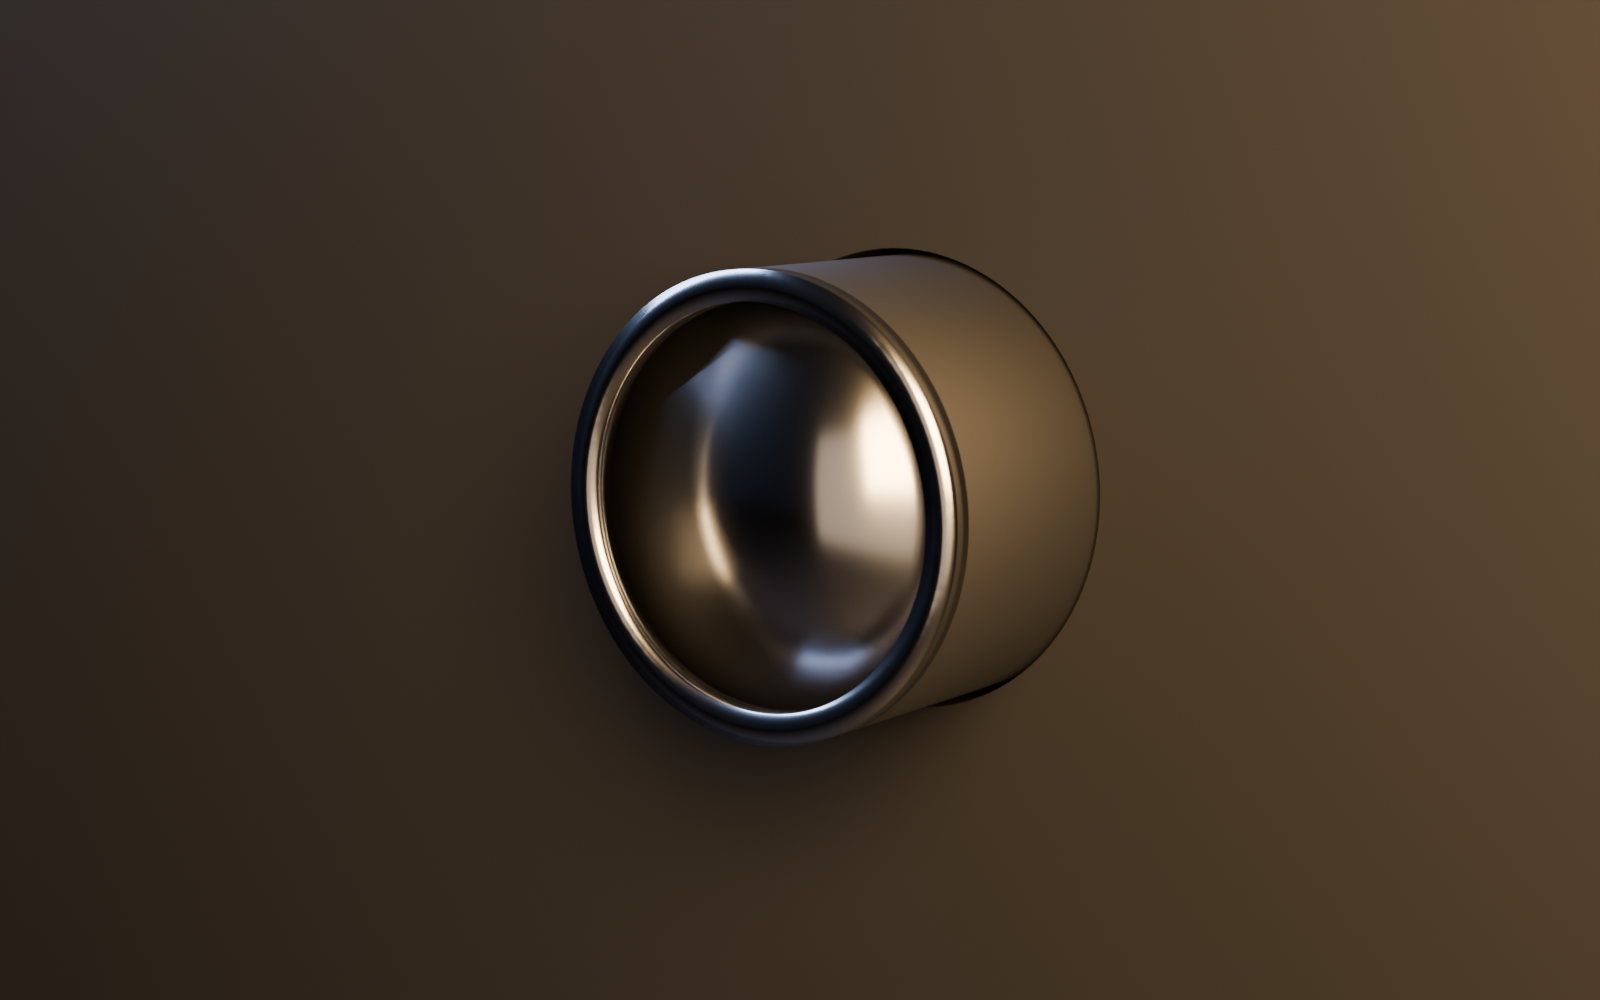
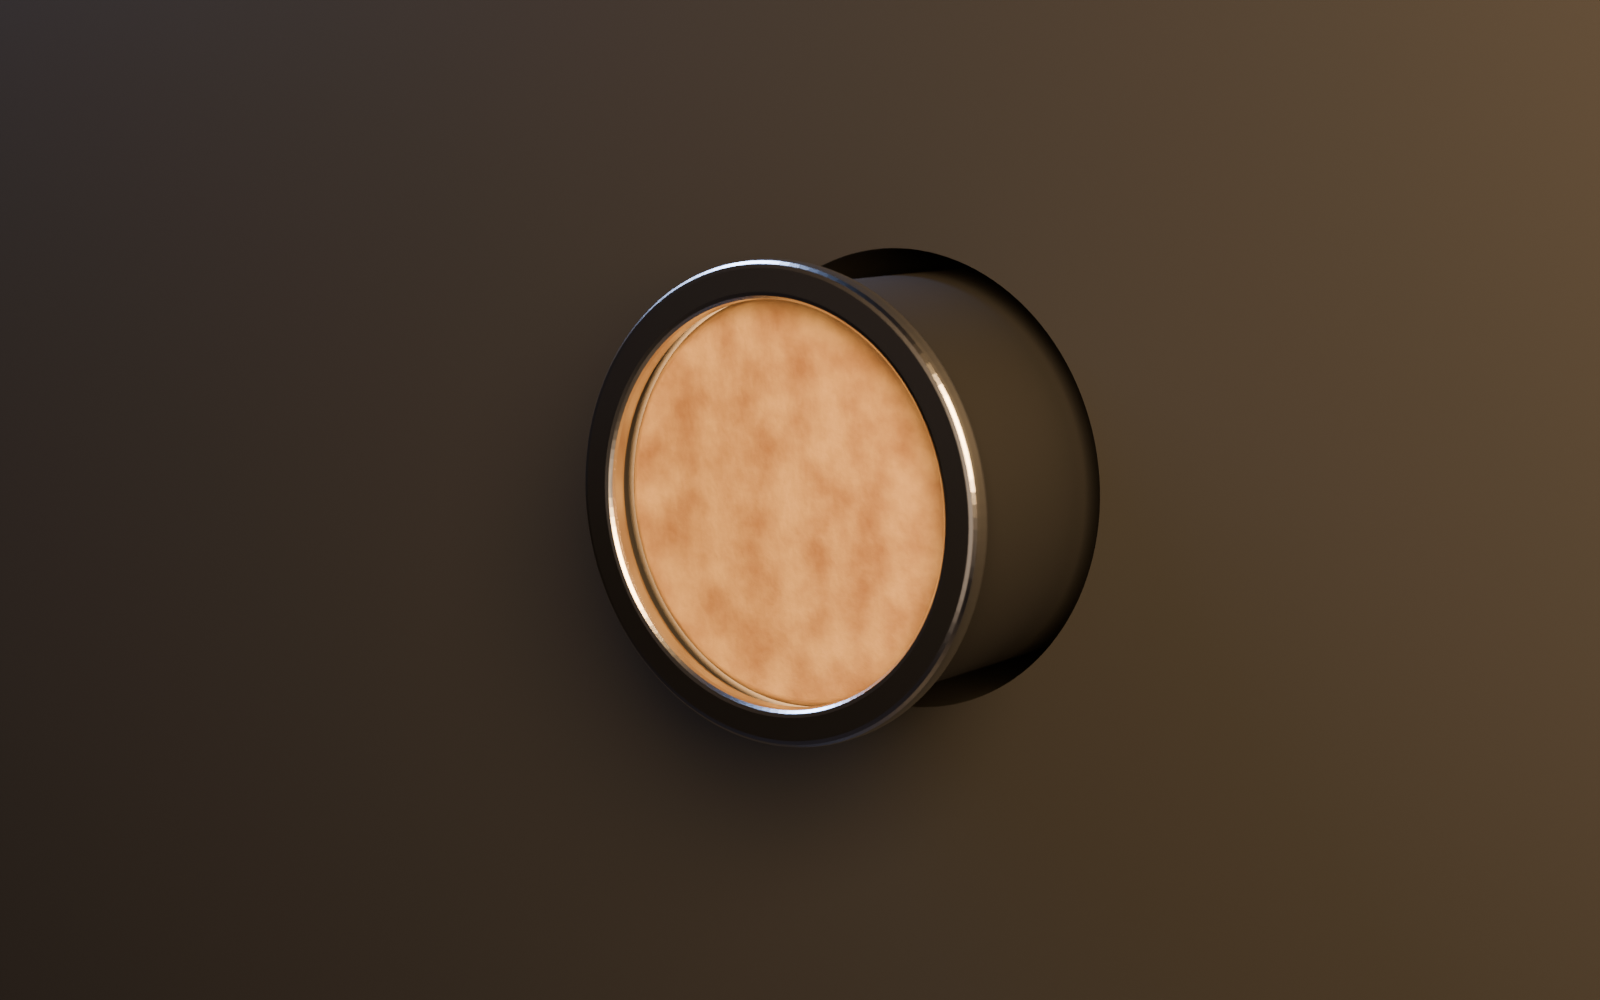
Tune hero render to "bread is the hero" + embed in landing page
The previous hero.png was a rough massing pass: the imported CAD parts
land at their FreeCAD origins, and the solid Piston sat in the mouth and
occluded the flatbread, so the shot read as a bronze steel cup on a
brown blur with no visible bread.

Rebuild build_scene.py from controlled primitives (sized from scene.json):
a dark recessed cook chamber, a stainless mouth-die ring, and the golden
flatbread seated proud of the die as the warm focal point. Richer toasted
bread colour, brighter cool rim to define the steel ring, DOF/mouth-glow
refocused on the bread.

Embed the render two-column in index.html's hero header (.hero-grid,
stacks under 720px) with an explicit img size to avoid layout shift.

Changed region(s): [[0.3438, 0.248, 0.6875, 0.744]]

diff --git a/index.html b/index.html
@@ -33,6 +33,11 @@
   .btns{margin-top:24px;display:flex;gap:12px;flex-wrap:wrap}
   .btn{border:1px solid var(--border);border-radius:8px;padding:9px 14px;color:var(--text)}
   .btn.primary{background:var(--warm);color:#2a1602;border-color:var(--warm);font-weight:600}
+  .hero-grid{display:grid;grid-template-columns:1.05fr .95fr;gap:40px;align-items:center}
+  .hero-media{position:relative}
+  .hero-media img{width:100%;height:auto;display:block;border:1px solid var(--border);
+    border-radius:14px;box-shadow:0 20px 50px rgba(0,0,0,.45)}
+  .hero-media figcaption{margin:10px 2px 0;color:var(--muted);font-size:12.5px}
   section{padding:48px 0;border-bottom:1px solid var(--border)}
   h2{font-size:26px;margin:0 0 8px} .lead{color:var(--muted);margin:0 0 24px;max-width:680px}
   .grid{display:grid;grid-template-columns:1fr 1fr;gap:20px}
@@ -54,7 +59,7 @@
   .t{font-size:12px;color:var(--muted);border:1px solid var(--border);border-radius:6px;padding:2px 8px}
   code{background:var(--panel2);border:1px solid var(--border);border-radius:5px;padding:1px 6px;font-size:13px}
   footer{padding:36px 0;color:var(--muted);font-size:14px}
-  @media(max-width:720px){.grid,.cards{grid-template-columns:1fr}h1{font-size:32px}}
+  @media(max-width:720px){.grid,.cards,.hero-grid{grid-template-columns:1fr}h1{font-size:32px}}
 </style>
 </head>
 <body>
@@ -73,15 +78,24 @@
 </div></nav>
 
 <header class="hero"><div class="wrap">
-  <div class="pill">Design + simulation · uncertified research · the food sibling of HiveCell</div>
-  <h1>No one should go hungry because they <span class="k">cannot afford food</span>.</h1>
-  <p class="tag">SeedCell is a public, self-cleaning machine that turns long-life dry ingredients
-  into a fresh, warm, nutritious flatbread on demand. Not a vending machine — a <em>food
-  syringe</em>: it briefly opens, delivers food, then cleans itself.</p>
-  <div class="btns">
-    <a class="btn primary" href="#how">How it works</a>
-    <a class="btn" href="#safety">Safety first</a>
-    <a class="btn" href="https://github.com/StrayEddy/SeedCell">Read the source</a>
+  <div class="hero-grid">
+    <div class="hero-copy">
+      <div class="pill">Design + simulation · uncertified research · the food sibling of HiveCell</div>
+      <h1>No one should go hungry because they <span class="k">cannot afford food</span>.</h1>
+      <p class="tag">SeedCell is a public, self-cleaning machine that turns long-life dry ingredients
+      into a fresh, warm, nutritious flatbread on demand. Not a vending machine — a <em>food
+      syringe</em>: it briefly opens, delivers food, then cleans itself.</p>
+      <div class="btns">
+        <a class="btn primary" href="#how">How it works</a>
+        <a class="btn" href="#safety">Safety first</a>
+        <a class="btn" href="https://github.com/StrayEddy/SeedCell">Read the source</a>
+      </div>
+    </div>
+    <figure class="hero-media">
+      <img src="assets/hero.png" width="1600" height="1000"
+        alt="SeedCell's delivery mouth: a fresh, warm flatbread presented in the stainless mouth die, recessed into a flush armored public wall.">
+      <figcaption>The delivery moment — a fresh flatbread in the mouth die. Blender render from the FreeCAD model.</figcaption>
+    </figure>
   </div>
 </div></header>
 

diff --git a/blender/build_scene.py b/blender/build_scene.py
@@ -68,10 +68,10 @@ def bread_mat():
 	n1 = nt.nodes.new("ShaderNodeTexNoise"); n1.inputs["Scale"].default_value = 9.0
 	n1.inputs["Detail"].default_value = 4.0
 	ramp = nt.nodes.new("ShaderNodeValToRGB")
-	ramp.color_ramp.elements[0].position = 0.35
-	ramp.color_ramp.elements[0].color = (0.30, 0.15, 0.06, 1)   # toasted
-	ramp.color_ramp.elements[1].position = 0.75
-	ramp.color_ramp.elements[1].color = (0.56, 0.34, 0.14, 1)   # golden
+	ramp.color_ramp.elements[0].position = 0.30
+	ramp.color_ramp.elements[0].color = (0.34, 0.17, 0.07, 1)   # deep toasted
+	ramp.color_ramp.elements[1].position = 0.70
+	ramp.color_ramp.elements[1].color = (0.66, 0.42, 0.18, 1)   # rich golden
 	nt.links.new(n1.outputs["Fac"], ramp.inputs["Fac"])
 	nt.links.new(ramp.outputs["Color"], b.inputs["Base Color"])
 	# a faint warmth so it reads as fresh/warm, but it is LIT not glowing
@@ -80,7 +80,7 @@ def bread_mat():
 	# crust bump
 	n2 = nt.nodes.new("ShaderNodeTexNoise"); n2.inputs["Scale"].default_value = 55.0
 	n2.inputs["Detail"].default_value = 3.0
-	bump = nt.nodes.new("ShaderNodeBump"); bump.inputs["Strength"].default_value = 0.22
+	bump = nt.nodes.new("ShaderNodeBump"); bump.inputs["Strength"].default_value = 0.28
 	nt.links.new(n2.outputs["Fac"], bump.inputs["Height"])
 	nt.links.new(bump.outputs["Normal"], b.inputs["Normal"])
 	return m
@@ -134,22 +134,53 @@ bpy.ops.object.modifier_apply(modifier="mouth")
 bpy.data.objects.remove(cutter, do_unlink=True)
 set_mat(wall, mat_wall)
 
-# ---- imported machine parts (real dims) -----------------------------------
-for pname, mat in [("MouthDie", mat_steel), ("CookBarrel", mat_wall), ("Piston", mat_steel)]:
-	o = imp(pname)
-	if o:
-		set_mat(o, mat); smooth(o)
+# ---- recessed cook chamber (dark interior behind the mouth) ----------------
+# An open dark tube gives the mouth real depth so the warm bread reads against a
+# shadowed interior. Primitives only: the imported CAD parts land at their FreeCAD
+# origins -- the solid Piston (x[0,0.12], r0.08) sits square in the mouth and
+# occludes the bread -- so they belong to the /godot twin, not this beauty shot.
+chamber_len = S["barrel_len_m"]
+bpy.ops.mesh.primitive_cylinder_add(radius=bore_r, depth=chamber_len, vertices=128,
+	end_fill_type="NOTHING")
+chamber = bpy.context.active_object
+chamber.name = "CookChamber"
+chamber.rotation_euler = (0, math.radians(90), 0)
+chamber.location = (S["die_thk_m"] + chamber_len / 2, 0, 0)
+bpy.ops.object.transform_apply(rotation=True)
+set_mat(chamber, mat_wall); smooth(chamber)
 
-# ---- the flatbread, recessed IN the mouth (the delivery moment) ------------
+# ---- stainless mouth die (the one bright ring that frames the aperture) ----
+die_or = hole_r
+die_ir = S["delivery_dia_m"] / 2.0
+bpy.ops.mesh.primitive_cylinder_add(radius=die_or, depth=S["die_thk_m"], vertices=128)
+die = bpy.context.active_object
+die.rotation_euler = (0, math.radians(90), 0)
+die.location = (S["die_thk_m"] / 2, 0, 0)
+bpy.ops.object.transform_apply(rotation=True, location=True)
+bpy.ops.mesh.primitive_cylinder_add(radius=die_ir, depth=S["die_thk_m"] * 4, vertices=128)
+dcut = bpy.context.active_object
+dcut.rotation_euler = (0, math.radians(90), 0)
+dcut.location = (S["die_thk_m"] / 2, 0, 0)
+bpy.ops.object.transform_apply(rotation=True, location=True)
+dboo = die.modifiers.new("aperture", "BOOLEAN")
+dboo.operation = "DIFFERENCE"; dboo.object = dcut
+bpy.context.view_layer.objects.active = die
+bpy.ops.object.modifier_apply(modifier="aperture")
+bpy.data.objects.remove(dcut, do_unlink=True)
+die.name = "MouthDie"
+dbev = die.modifiers.new("edge", "BEVEL"); dbev.width = 0.003; dbev.segments = 3
+set_mat(die, mat_steel); smooth(die)
+
+# ---- the flatbread: the warm hero, seated just inside the mouth ------------
 br = S["flatbread_dia_m"] / 2.0
 bt = S["flatbread_thk_m"]
 bpy.ops.mesh.primitive_cylinder_add(radius=br, depth=bt, vertices=128)
 bread = bpy.context.active_object
 bread.name = "Flatbread"
 bread.rotation_euler = (0, math.radians(90), 0)
-bread.location = (bt * 0.6, 0, 0)          # nested just inside the mouth plane
+bread.location = (S["die_thk_m"] + bt, 0, 0)   # proud of the die, framed by the ring
 bpy.ops.object.transform_apply(rotation=True)
-bev = bread.modifiers.new("edge", "BEVEL"); bev.width = 0.004; bev.segments = 3
+bev = bread.modifiers.new("edge", "BEVEL"); bev.width = 0.005; bev.segments = 4
 set_mat(bread, mat_bread); smooth(bread)
 
 # ---- floor (sidewalk, for warm bounce) ------------------------------------
@@ -178,12 +209,12 @@ def add_area(name, loc, energy, color, size, target=Vector((0, 0, 0))):
 
 add_area("key", (-0.9, -0.85, 0.5), 90.0, (1.0, 0.6, 0.26), 0.8)     # warm pool at the mouth
 add_area("fill", (-1.5, -0.7, 0.1), 12.0, (1.0, 0.72, 0.5), 1.8)     # gentle lift
-add_area("rim", (0.2, 1.1, 1.0), 70.0, (0.45, 0.6, 1.0), 0.9)         # cool rim on the steel die
+add_area("rim", (0.2, 1.1, 1.0), 95.0, (0.45, 0.6, 1.0), 0.9)         # cool rim defines the steel die
 gp = bpy.data.lights.new("mouthglow", "POINT")
-gp.energy = 10.0; gp.color = (1.0, 0.52, 0.2); gp.shadow_soft_size = 0.06
+gp.energy = 14.0; gp.color = (1.0, 0.52, 0.2); gp.shadow_soft_size = 0.06
 gpo = bpy.data.objects.new("mouthglow", gp)
 bpy.context.collection.objects.link(gpo)
-gpo.location = (0.05, 0, 0)
+gpo.location = (0.06, 0, 0)   # just proud of the die, warming the bread face
 
 # ---- camera (tight 3/4 hero on the mouth) ---------------------------------
 cd = bpy.data.cameras.new("cam"); cd.lens = 62
@@ -194,7 +225,7 @@ _t = Vector((0.02, 0.0, 0.0))
 cam.rotation_euler = (_t - cam.location).to_track_quat("-Z", "Y").to_euler()
 bpy.context.scene.camera = cam
 cd.dof.use_dof = True
-cd.dof.focus_distance = (Vector((bt * 0.6, 0, 0)) - cam.location).length
+cd.dof.focus_distance = (Vector((S["die_thk_m"] + bt, 0, 0)) - cam.location).length
 cd.dof.aperture_fstop = 5.6
 
 # ---- render ---------------------------------------------------------------
